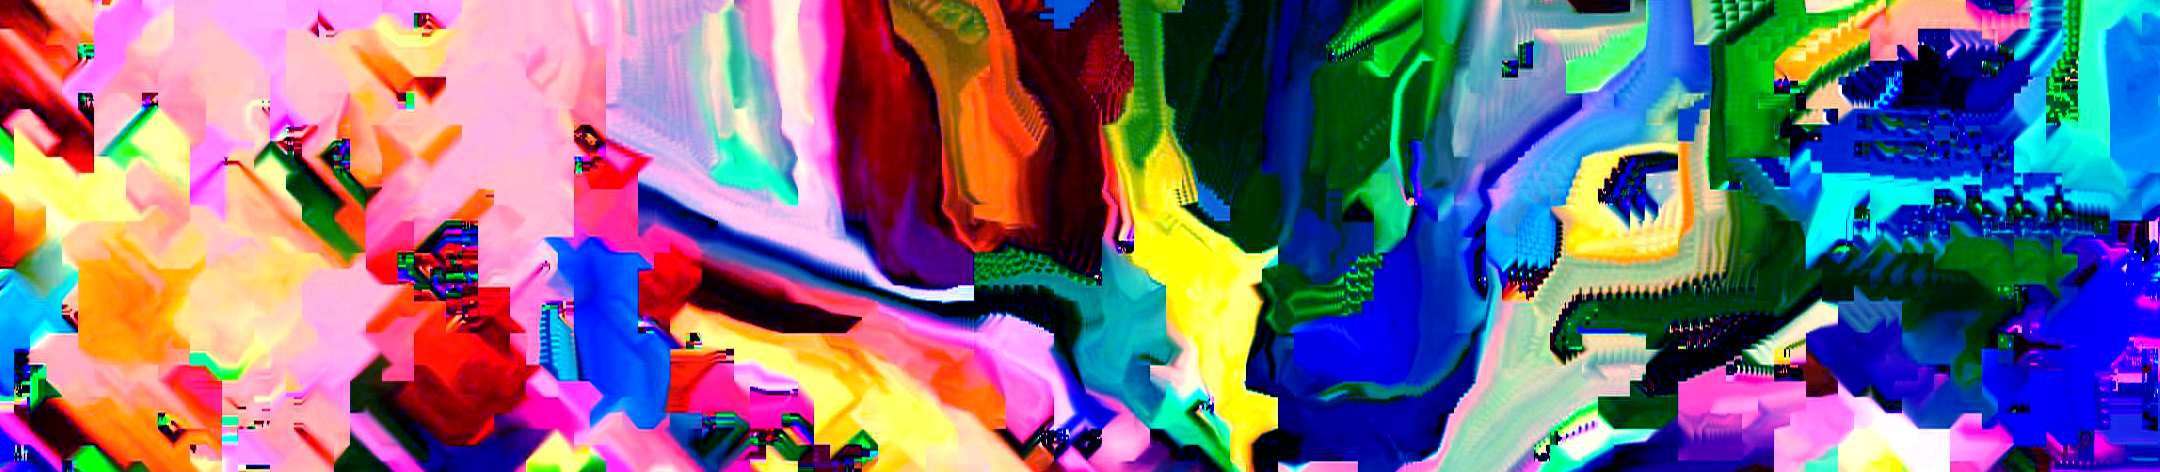
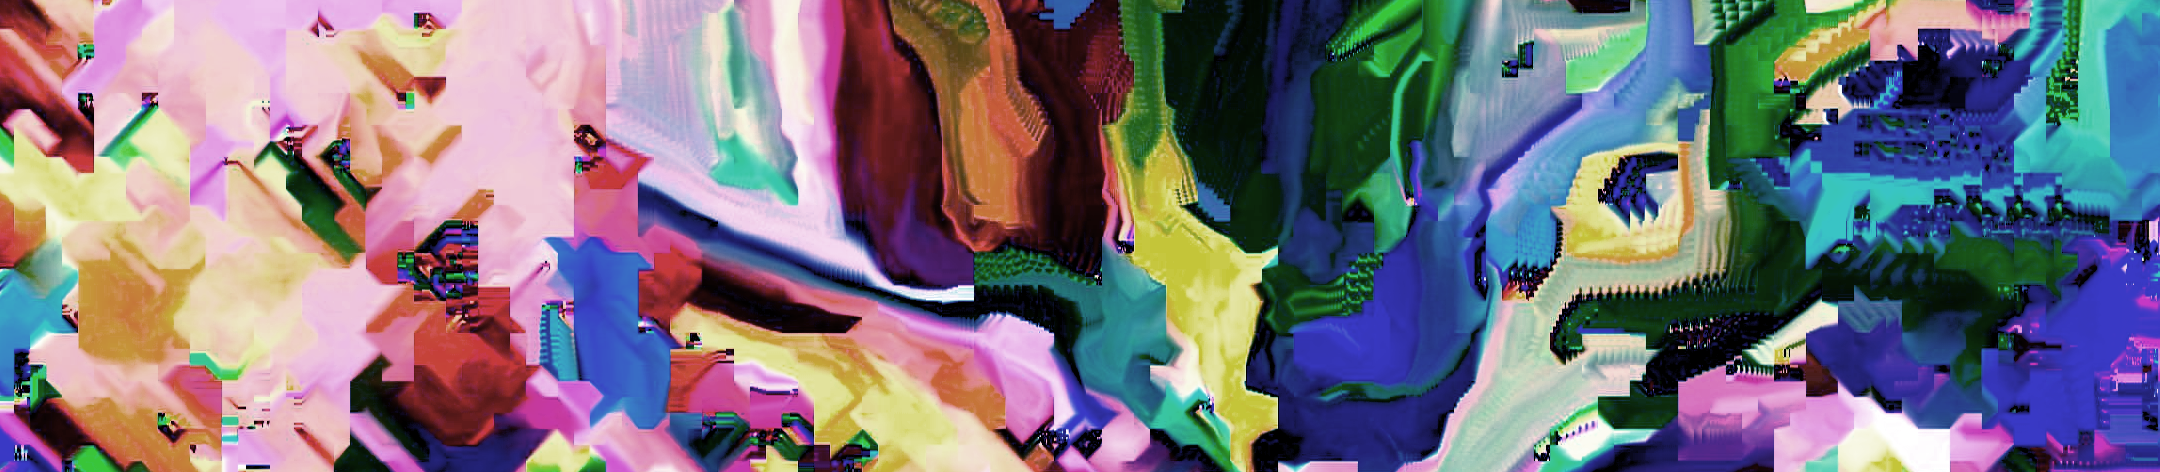
feat: finally settle on colors (for now)

diff --git a/assets/css/main.css b/assets/css/main.css
@@ -212,7 +212,7 @@ a {
 
 a:hover {
 	border-bottom-color: transparent;
-	color: #ffb1de !important;
+	color: #ca4a5f !important;
 }
 
 strong,
@@ -1893,7 +1893,7 @@ header h6+p {
 }
 
 header.major h2 {
-	color: #ffb1de;
+	color: #ca4a5f;
 	font-size: 3.5em;
 }
 
@@ -1956,7 +1956,7 @@ input[type="password"]:focus,
 input[type="email"]:focus,
 select:focus,
 textarea:focus {
-	border-color: #ffb1de;
+	border-color: #ca4a5f;
 }
 
 select {
@@ -2061,7 +2061,7 @@ input[type="radio"]:checked+label:before {
 
 input[type="checkbox"]:focus+label:before,
 input[type="radio"]:focus+label:before {
-	border-color: #ffb1de;
+	border-color: #ca4a5f;
 }
 
 input[type="checkbox"]+label:before {
@@ -2510,7 +2510,7 @@ ul.feature-icons li:before {
 }
 
 ul.feature-icons li:before {
-	background: #ffb1de;
+	background: #ca4a5f;
 	border-radius: 100%;
 	color: #ffffff;
 	display: block;
@@ -2726,7 +2726,7 @@ input[type="submit"].primary,
 input[type="reset"].primary,
 input[type="button"].primary,
 .button.primary {
-	background-color: #ffb1de;
+	background-color: #ca4a5f;
 	color: #ffffff !important;
 }
 
@@ -2741,7 +2741,7 @@ input[type="submit"].primary:active,
 input[type="reset"].primary:active,
 input[type="button"].primary:active,
 .button.primary:active {
-	background-color: #ffb1de;
+	background-color: #ca4a5f;
 }
 
 input[type="submit"].disabled,
@@ -2809,7 +2809,7 @@ input[type="button"]:disabled,
 	-webkit-justify-content: space-between;
 	-ms-justify-content: space-between;
 	justify-content: space-between;
-	background: #ffb1de;
+	background: #ca4a5f;
 	color: #d2f2e9;
 	height: 100%;
 	overflow-y: auto;
@@ -2891,7 +2891,7 @@ input[type="button"]:disabled,
 }
 
 #header>footer .icons li a {
-	color: #b7eadc;
+	color: #ffe1c3;
 }
 
 #header>nav {
@@ -2908,7 +2908,7 @@ input[type="button"]:disabled,
 }
 
 #header>nav ul li {
-	border-top: solid 2px #ffb1de;
+	border-top: solid 2px #ca4a5f;
 	display: block;
 	padding: 0;
 }
@@ -2927,7 +2927,7 @@ input[type="button"]:disabled,
 
 #header>nav ul li a.active {
 	background: #fff;
-	color: #ffb1de !important;
+	color: #ca4a5f !important;
 }
 
 #header>nav ul li:first-child {
@@ -3207,7 +3207,7 @@ input[type="button"]:disabled,
 	}
 
 	#titleBar .toggle:before {
-		background: #ffb1de;
+		background: #ca4a5f;
 		color: #ffffff;
 		content: '\f0c9';
 		display: block;

diff --git a/assets/sass/libs/_vars.scss b/assets/sass/libs/_vars.scss
@@ -32,18 +32,18 @@ $palette: (bg: #fff,
 	border3: #e0e0e0,
 	border3-bg: #eaeaea,
 
-	accent1: (bg: #ffb1de,
+	accent1: (bg: #ca4a5f,
 		fg-bold: #ffffff,
-		fg: mix(#ffb1de, #ffffff, 25%),
-		fg-light: mix(#ffb1de, #ffffff, 40%)),
+		fg: mix(#ca4a5f, #ffffff, 25%),
+		fg-light: mix(#ca4a5f, #ffffff, 40%)),
 
 	accent2: (bg: #989898,
 		fg-bold: #ffffff,
 		fg: mix(#989898, #ffffff, 25%),
 		fg-light: mix(#989898, #ffffff, 40%)),
 
-	header: (bg: #ffb1de,
+	header: (bg: #ca4a5f,
 		fg-bold: #ffffff,
-		fg: mix(#ffb1de, #ffffff, 25%),
-		fg-light: mix(#ffb1de, #ffffff, 40%),
-		border: mix(#ffb1de, #ffffff, 90%)));
+		fg: mix(#ca4a5f, #ffffff, 25%),
+		fg-light: mix(#ca4a5f, #ffffff, 40%),
+		border: mix(#ca4a5f, #ffffff, 90%)));

diff --git a/index.html b/index.html
@@ -57,7 +57,6 @@
 							in training.</h2>
 						<p>currently: lab manager @ <a href="http://lnccbrown.com">brown</a></p>
 						<p>upcoming: phd student @ <a href="http://cosanlab.com">dartmouth</a></p>
-						<p>i m o k</p>
 					</header>
 				</div>
 			</section>
@@ -66,7 +65,7 @@
 			<section id="two">
 				<div class="container">
 					<h3>research</h3>
-					<p>learning. decision-making. memory. social interactions. computational psychiatry. information
+					<p>learning. decision-making. memory. social interactions. <br>computational psychiatry. information
 						processing.</p>
 					<!-- <ul class="feature-icons">
 						<li class="icon solid fa-code">Write all the code</li>
